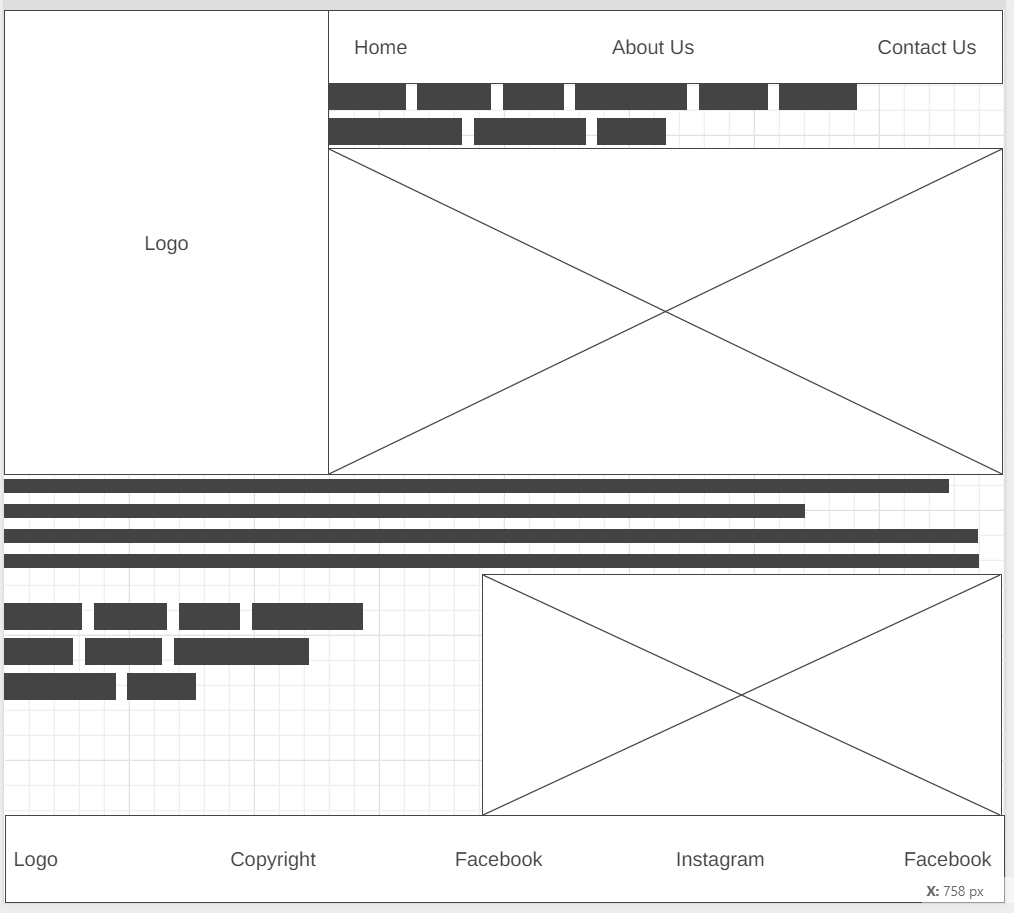
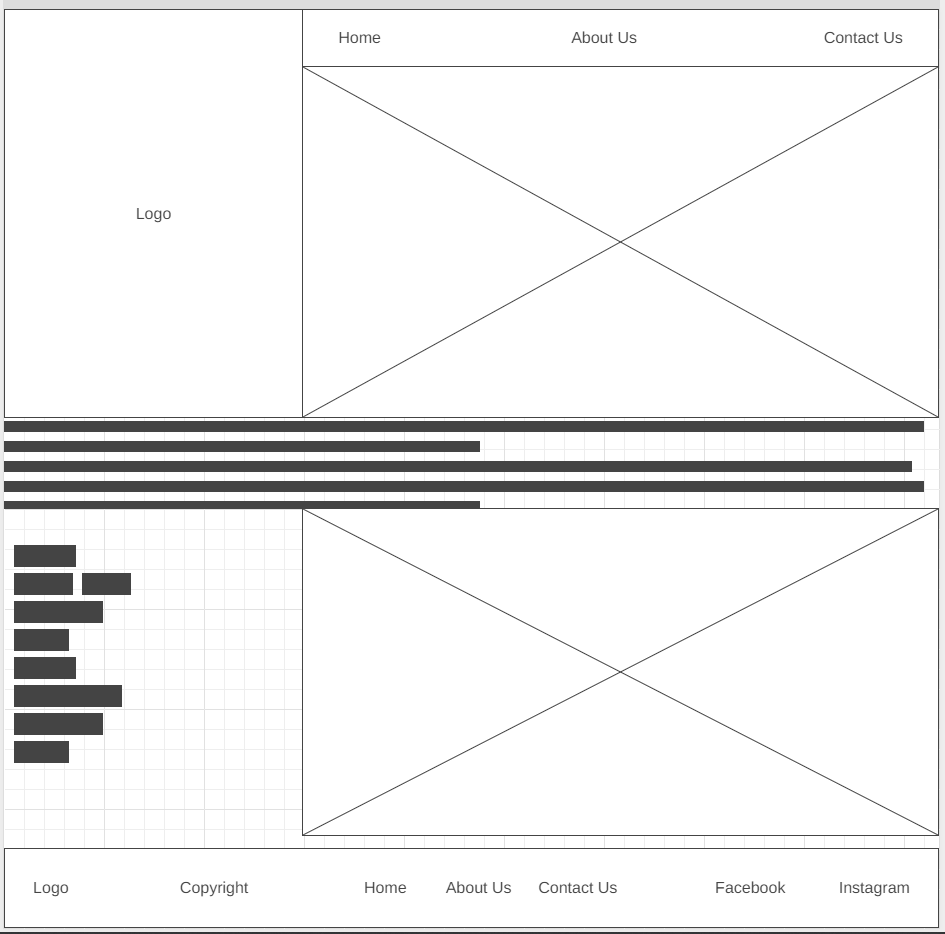
content added and wireframe changed

diff --git a/easy_development/styles-home/styles.css b/easy_development/styles-home/styles.css
@@ -1,3 +1,5 @@
+@import url('https://fonts.googleapis.com/css2?family=Orbitron:wght@600&display=swap');
+
 .logo {
     grid-column: 1/3;
     width: 30rem;
@@ -5,10 +7,14 @@
        
 }
 
+#content {
+   
+}
+
 header {
     display: flex;
     background-color: gray;
-    width: 100%;
+    width: 100.5%;
     height: 100px;
     margin-top: -8px;
     grid-template-columns: 400px;
@@ -18,6 +24,7 @@ header {
 nav a {
     color: #A42212;
     text-decoration: none;
+    font-family: 'Orbitron', sans-serif;
     font-size: 20px;
     margin-left: 200px;
     justify-content: space-around;
@@ -37,16 +44,69 @@ nav a:hover {
 
 body {
     background-color: #18acf0;
+    background: linear-gradient(70deg, black, #18acf0);
+}
+
+.presentation {
+    display: grid;
+    grid-template-columns: 30% 70%;
+}
+
+.first-image {
+    grid-column: 2;
+}
+
+.image1 {
+    width: 61.5rem;
+    height: 33.8rem;
+    margin-left: 2.7rem;
+   
+}
+
+.paragraph {
+    color: white;
+    font-family: 'Orbitron', sans-serif;
+    font-size: 1.6em;
+    font-weight: bold;
+}
+
+.red-description {
+    display: grid;
+    grid-template-columns: 30% 70%;
+    grid-template-rows: 50% 50%;
+}
+
+.description {
+   display: inline-flex;
+}
+
+.red {
+    width: 85.5rem;
+    height: 40rem;
+    margin-left: 16.6rem;
+    display: inline-block;
+    grid-column-start: 2;
+    grid-row: 2/3;
+}
+
+h2 {
+    font-family: 'Orbitron', sans-serif;
+    font-size: 2em;
+    grid-column: 1;
+    grid-row: 1;
+    color: gray;
+    
+     
 }
 
 footer{
-    width: 93%;
+    width: 93.5%;
     background-color: gray;  
     padding: 25px 50px;
     display: flex;
     justify-content: space-around;
     align-items: center;
-    margin-top: 100rem;
+    
 }
 
 footer .social img {
@@ -63,7 +123,8 @@ footer, a {
 }
 
 footer p {
-    font-size: 1.2em;
+    font-family: 'Orbitron', sans-serif;
+    font-size: 20px;
     text-align: center;
     justify-items: space-around;
 }
@@ -79,3 +140,6 @@ footer p a:hover {
     margin-left: -8%;
 }
 
+@media screen and (min-width: 1024px) {
+    
+}

diff --git a/easy_development/index.html b/easy_development/index.html
@@ -20,7 +20,28 @@
                 <a href="contactus.html">Contact Us</a>
             </nav>
         </header>
-
+        <div class="presentation">
+            <section class="first-image">
+                <img class="image1" src="images/Home1.jpg" alt="image principal">
+            </section>
+        </div>
+        <div>
+            <section class="paragraph">
+                <p>We all deserve the opportunity to learn about and enjoy technological advances.
+                    As a developer I invite you to discover an easier and more wonderful world than you imagine
+                    from what you have seen or heard until today.
+                    Construction of websites that fit your needs, what you hope to convey and where you want to place
+                    what (anything)
+                    you want to show and offer to the world leaving a great impact.</p>
+            </section>
+        </div>
+        <div class="red-description">
+            <section class="description">
+                <h2>We all deserve the opportunity to learn about and enjoy technological advances.
+                    As a developer I invite you to discover an easier and more wonderful.</h2>
+                <img class="red" src="images/Home.jpg" alt="image-red">
+            </section>
+        </div>
 
         <footer>
             <img class="logo-footer" src="images/Super Structures-logos.jpeg" alt="">
